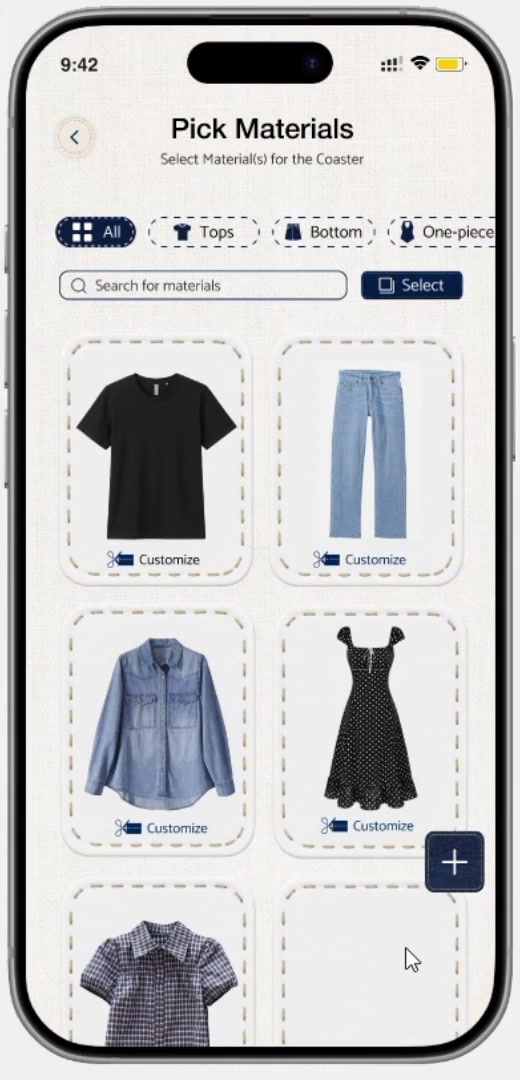
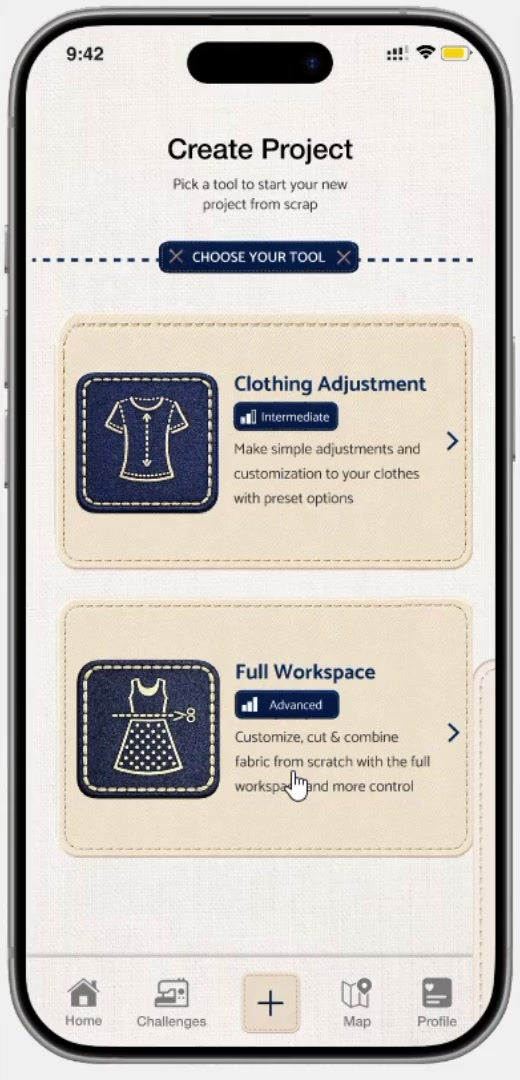
video thumbnail fix

diff --git a/sewing-project.html b/sewing-project.html
@@ -28,7 +28,7 @@
     <link rel="stylesheet" href="css/main.css" />
     <script src="js/nav-underline.js" defer></script>
     <script src="js/intro-motion.js" defer></script>
-    <link rel="stylesheet" href="css/project.css?v=20261011-persistent-play-button" />
+    <link rel="stylesheet" href="css/project.css?v=20261011-rounded-local-videos" />
     <link rel="stylesheet" href="css/popup.css" />
     <link rel="stylesheet" href="css/lightbox.css" />
     <script src="js/popup.js" defer></script>
@@ -387,7 +387,7 @@
                         <svg class="local-video-pause-icon" viewBox="0 0 24 24" aria-hidden="true" hidden><path d="M6 5h4v14H6zM14 5h4v14h-4z" /></svg>
                       </button>
                       <div class="local-video-frame">
-                      <video id="advanced-customization-video" class="local-video" width="520" height="1080" poster="media/sewing/advance_customization-poster.jpg" controls playsinline muted loop preload="metadata" aria-label="Advanced customization walkthrough">
+                      <video id="advanced-customization-video" class="local-video" width="520" height="1080" poster="media/sewing/advance_customization-poster.jpg?v=first-frame" controls playsinline muted loop preload="metadata" aria-label="Advanced customization walkthrough">
                         <source src="media/sewing/advance_customization.mp4" type="video/mp4" />
                         <a href="media/sewing/advance_customization.mp4">Watch the advanced customization video</a>.
                       </video>
@@ -399,7 +399,7 @@
                         <input class="local-video-seek" type="range" min="0" max="100" step="0.1" value="0" aria-label="Video playback position" disabled />
                       </div>
                     </div>
-                    <figcaption class="article-caption">More advanced customization options.</figcaption>
+                    <figcaption class="article-caption">More customization options as users build their skills</figcaption>
                     <p class="local-video-status" role="status" hidden></p>
                   </figure>
                 </div>
@@ -438,7 +438,7 @@
                         <svg class="local-video-pause-icon" viewBox="0 0 24 24" aria-hidden="true" hidden><path d="M6 5h4v14H6zM14 5h4v14h-4z" /></svg>
                       </button>
                       <div class="local-video-frame">
-                      <video id="beginner-project-video" class="local-video" width="720" height="1452" poster="media/sewing/beginner_project-poster.jpg" controls playsinline muted loop preload="metadata" aria-label="Beginner project walkthrough">
+                      <video id="beginner-project-video" class="local-video" width="720" height="1452" poster="media/sewing/beginner_project-poster.jpg?v=first-frame" controls playsinline muted loop preload="metadata" aria-label="Beginner project walkthrough">
                         <source src="media/sewing/beginner_project.mp4" type="video/mp4" />
                         <a href="media/sewing/beginner_project.mp4">Watch the beginner project video</a>.
                       </video>
@@ -474,7 +474,7 @@
                         <svg class="local-video-pause-icon" viewBox="0 0 24 24" aria-hidden="true" hidden><path d="M6 5h4v14H6zM14 5h4v14h-4z" /></svg>
                       </button>
                       <div class="local-video-frame">
-                      <video id="targeted-help-video" class="local-video" width="720" height="1484" poster="media/sewing/targeted_help-poster.jpg" controls playsinline muted loop preload="metadata" aria-label="Targeted help walkthrough">
+                      <video id="targeted-help-video" class="local-video" width="720" height="1484" poster="media/sewing/targeted_help-poster.jpg?v=first-frame" controls playsinline muted loop preload="metadata" aria-label="Targeted help walkthrough">
                         <source src="media/sewing/targeted_help.mp4" type="video/mp4" />
                         <a href="media/sewing/targeted_help.mp4">Watch the targeted help video</a>.
                       </video>
